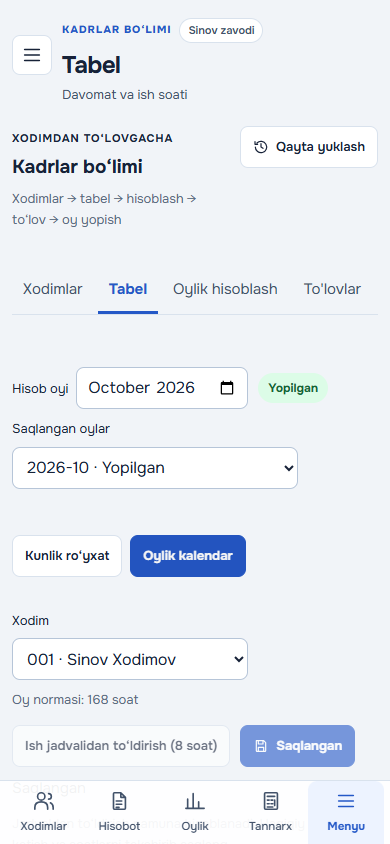
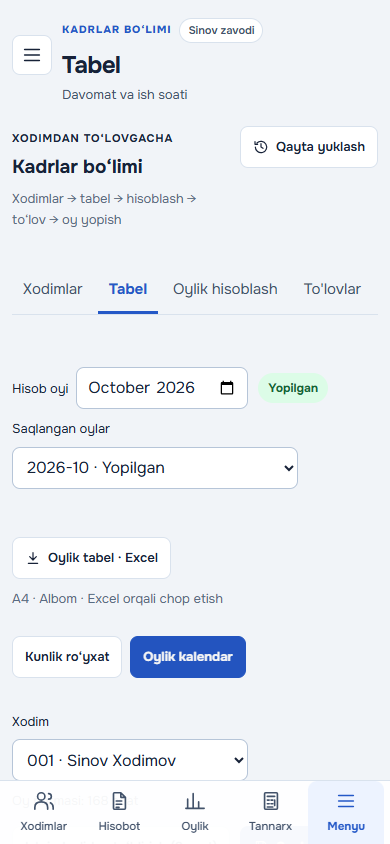
hammasi yaxshi

Changed region(s): [[0.0308, 0.6161, 0.6462, 0.9242], [0.6154, 0.8318, 0.9231, 0.9242]]

diff --git a/frontend/components/HrTab.js b/frontend/components/HrTab.js
@@ -27,6 +27,7 @@ export default function HrTab({notify,openForm,initialView,onViewChange}) {
   const [query,setQuery]=useState(''),[selected,setSelected]=useState(''),[days,setDays]=useState({}),[dirty,setDirty]=useState(false);
   const [rates,setRates]=useState(null),[history,setHistory]=useState(null);
   useEffect(()=>{if(initialView){setView(initialView);setDirty(false);setListEdits({});setDays(doc?.attendance?.[selected]||{});}},[initialView]);
+  useEffect(()=>{setListDay(day=>Math.min(day,endOf(month)));},[month]);
   const request=useRef(0),ratesRequest=useRef(0);
   const load=useCallback(async()=>{
     const id=++request.current;setLoading(true);setError('');setDoc(null);
@@ -169,7 +170,7 @@ export default function HrTab({notify,openForm,initialView,onViewChange}) {
         <div className="hr-toolbar"><button className="btn" disabled={busy||loading||dirty||!!error} onClick={()=>run(()=>exportTimesheet({month,employees:eligible,doc,company:user.factory?.name,t}))}><Icon name="download"/>{t('Oylik tabel')} · Excel</button><span className="hint">{t('A4 · Albom · Excel orqali chop etish')}</span></div>
         <div className="hr-view-switch"><button className={`btn ${timeMode==='list'?'primary':''}`} onClick={()=>{if(askLeave()){setTimeMode('list');setListEdits({});setDirty(false);setDays(doc.attendance[selected]||{});}}}>{t('Kunlik ro‘yxat')}</button><button className={`btn ${timeMode==='calendar'?'primary':''}`} onClick={()=>{if(askLeave()){setTimeMode('calendar');setListEdits({});setDirty(false);}}}>{t('Oylik kalendar')}</button></div>
         {timeMode==='list'&&<>
-          <div className="hr-toolbar"><button className="btn" disabled={busy} onClick={()=>{if(!askLeave())return;const date=today();setListEdits({});setDirty(false);setListDay(+date.slice(8));if(month!==date.slice(0,7)){setDoc(null);setLoading(true);setMonth(date.slice(0,7));}}}>{t('Bugun')}</button><label>{t('Sana')}<select value={listDay} disabled={busy} onChange={e=>{if(askLeave()){setListDay(+e.target.value);setListEdits({});setDirty(false);}}}>{dayList.map(d=><option key={d} value={d}>{String(d).padStart(2,'0')}.{month.slice(5)}.{month.slice(0,4)}</option>)}</select></label><button className="btn primary" disabled={!editable||!dirty} onClick={()=>run(async()=>{let version=doc.version;for(const [id,value] of Object.entries(listEdits)){const updated={...doc.attendance[id]};if(value.status)updated[listDay]=value;else delete updated[listDay];const result=await api(`/hr/months/${month}/attendance/${id}`,{method:'PUT',body:{version,days:updated}});version=result.version;}await load();notify('Saqlandi');})}>{t('Tabelni saqlash')}</button><span className="hint">{t(dirty?'Saqlanmagan o‘zgarishlar':'Saqlangan')}</span></div>
+          <div className="hr-toolbar"><button className="btn" disabled={busy} onClick={()=>{if(!askLeave())return;const date=today();setListEdits({});setDirty(false);setListDay(+date.slice(8));if(month!==date.slice(0,7)){setDoc(null);setLoading(true);setMonth(date.slice(0,7));}}}>{t('Bugun')}</button><label>{t('Sana')}<select aria-label={t('Sana')} value={listDay} disabled={busy} onChange={e=>{if(askLeave()){setListDay(+e.target.value);setListEdits({});setDirty(false);}}}>{dayList.map(d=><option key={d} value={d}>{String(d).padStart(2,'0')}.{month.slice(5)}.{month.slice(0,4)}</option>)}</select></label><button className="btn primary" disabled={!editable||!dirty} onClick={()=>run(async()=>{let version=doc.version;for(const [id,value] of Object.entries(listEdits)){const updated={...doc.attendance[id]};if(value.status)updated[listDay]=value;else delete updated[listDay];const result=await api(`/hr/months/${month}/attendance/${id}`,{method:'PUT',body:{version,days:updated}});version=result.version;}await load();notify('Saqlandi');})}>{t('Tabelni saqlash')}</button><span className="hint">{t(dirty?'Saqlanmagan o‘zgarishlar':'Saqlangan')}</span></div>
           <p className="hint">{t('Sanani tanlang, har bir xodimning holati va ishlagan soatini belgilang.')}</p>
           <div className="tbl-wrap hr-daily"><table><thead><tr>{['Xodim','Sex / bo‘lim','Holat','Ish soati','Smena'].map(x=><th key={x}>{t(x)}</th>)}</tr></thead><tbody>{eligible.filter(e=>employed(e,`${month}-${String(listDay).padStart(2,'0')}`)).map(e=>{const v=listEdits[e.id]||doc.attendance[e.id]?.[listDay]||{status:'',hours:0,shift:'day'};const update=(key,value)=>{const next={...v,[key]:value};if(key==='status')next.hours=['work','trip'].includes(value)?(v.hours||8):0;setListEdits(prev=>({...prev,[e.id]:next}));setDirty(true);};return <tr key={e.id}><td><strong>{e.name}</strong><div className="hint">{e.code} · {e.position}</div></td><td>{e.department||'—'}</td><td><select aria-label={`${e.name} · ${t('Holat')}`} disabled={!editable} value={v.status} onChange={ev=>update('status',ev.target.value)}><option value="">—</option>{STATUS.map(([k,l])=><option key={k} value={k}>{t(l)}</option>)}</select></td><td><input aria-label={`${e.name} · ${t('Ish soati')}`} type="number" min="0" max="24" step="0.25" disabled={!editable||!['work','trip'].includes(v.status)} value={v.hours} onChange={ev=>update('hours',ev.target.value)}/></td><td><select aria-label={`${e.name} · ${t('Smena')}`} disabled={!editable||!v.status} value={v.shift} onChange={ev=>update('shift',ev.target.value)}><option value="day">{t('Kunduzgi')}</option><option value="night">{t('Tungi')}</option></select></td></tr>;})}</tbody></table></div>
           {!eligible.length&&<p className="empty">{t('Xodimlar hali kiritilmagan')}</p>}

diff --git a/backend/tests/hr-browser.js b/backend/tests/hr-browser.js
@@ -48,7 +48,7 @@ try {
       const request=route.request(),u=new URL(request.url());
       try{const response=await route.fetch({url:backend+u.pathname+u.search});await route.fulfill({response});}catch(e){errors.push(e.message);await route.abort();}
     });
-    const page=await context.newPage();page.on('pageerror',e=>errors.push(e.message));page.on('dialog',d=>d.accept());
+    const page=await context.newPage();await page.clock.setFixedTime(new Date('2026-10-30T12:00:00+05:00'));page.on('pageerror',e=>errors.push(e.message));page.on('dialog',d=>d.accept());
     await page.goto('http://127.0.0.1:3100');
     try{await page.locator('.hr-module').getByRole('tab',{name:'Xodimlar',exact:true}).waitFor();}
     catch(e){await page.screenshot({path:path.join(artifacts,'debug.png'),fullPage:true});console.log('UI DEBUG',await page.locator('body').innerText(),JSON.stringify(errors));throw e;}
@@ -64,7 +64,7 @@ try {
   assert.equal((await one('SELECT salary FROM hr_rates WHERE employee_id=$1',[employee.id])).salary,3480000);
   await page.locator('.hr-module').getByRole('tab',{name:'Tabel',exact:true}).click();
   await page.getByRole('button',{name:'Bugun',exact:true}).click();
-  assert.equal(await page.getByLabel('Sana',{exact:true}).inputValue(),String(new Date().getDate()));
+  assert.equal(await page.getByLabel('Sana',{exact:true}).inputValue(),'30');
   await page.getByLabel('Sana',{exact:true}).selectOption('1');
   const [tabelDownload]=await Promise.all([page.waitForEvent('download'),page.getByRole('button',{name:'Oylik tabel · Excel',exact:true}).click()]);
   const tabelFile=path.join(root,'tmp/pdfs/hr-monthly-tabel.xlsx');await tabelDownload.saveAs(tabelFile);
